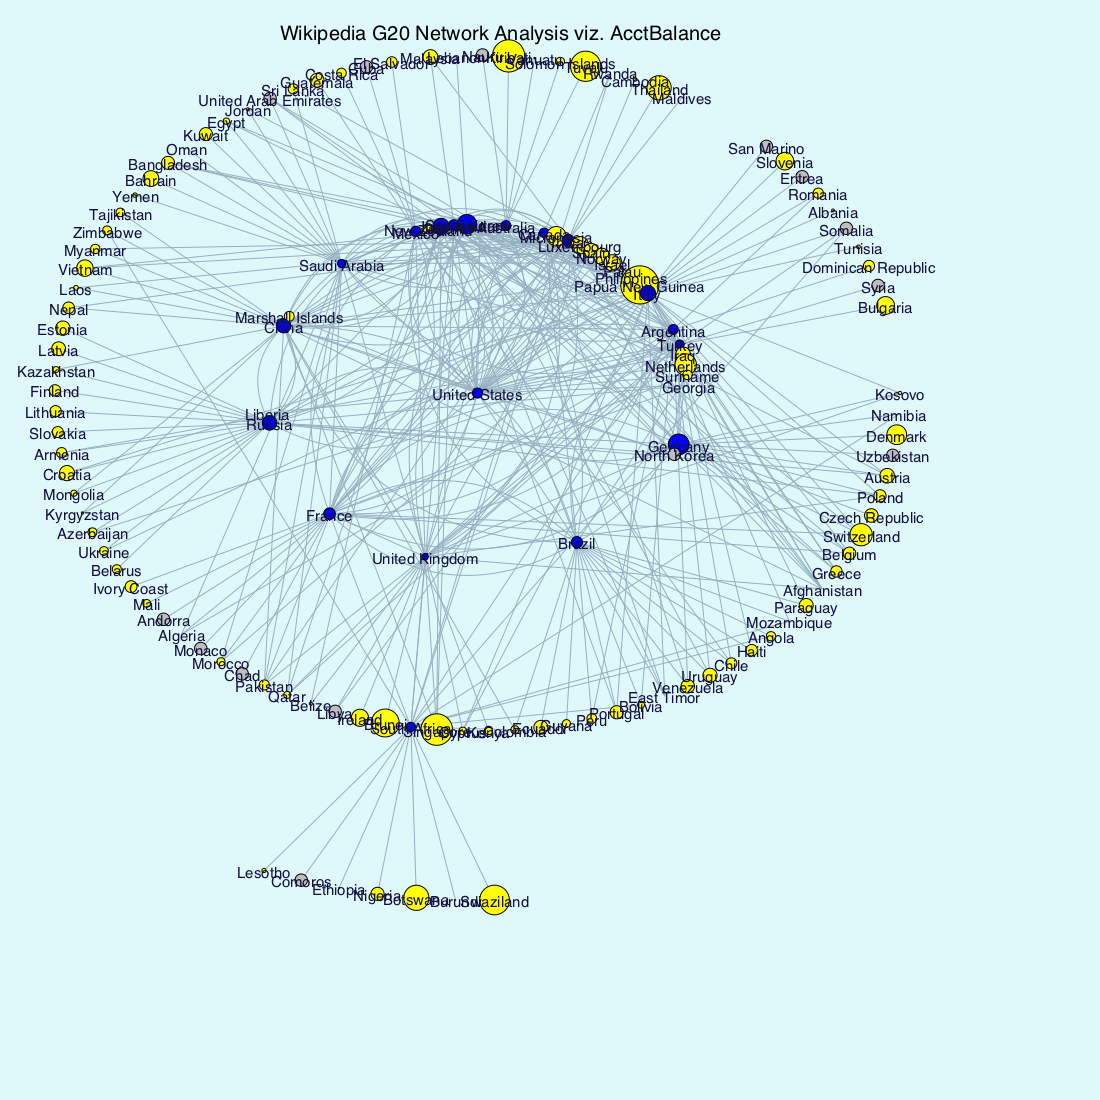
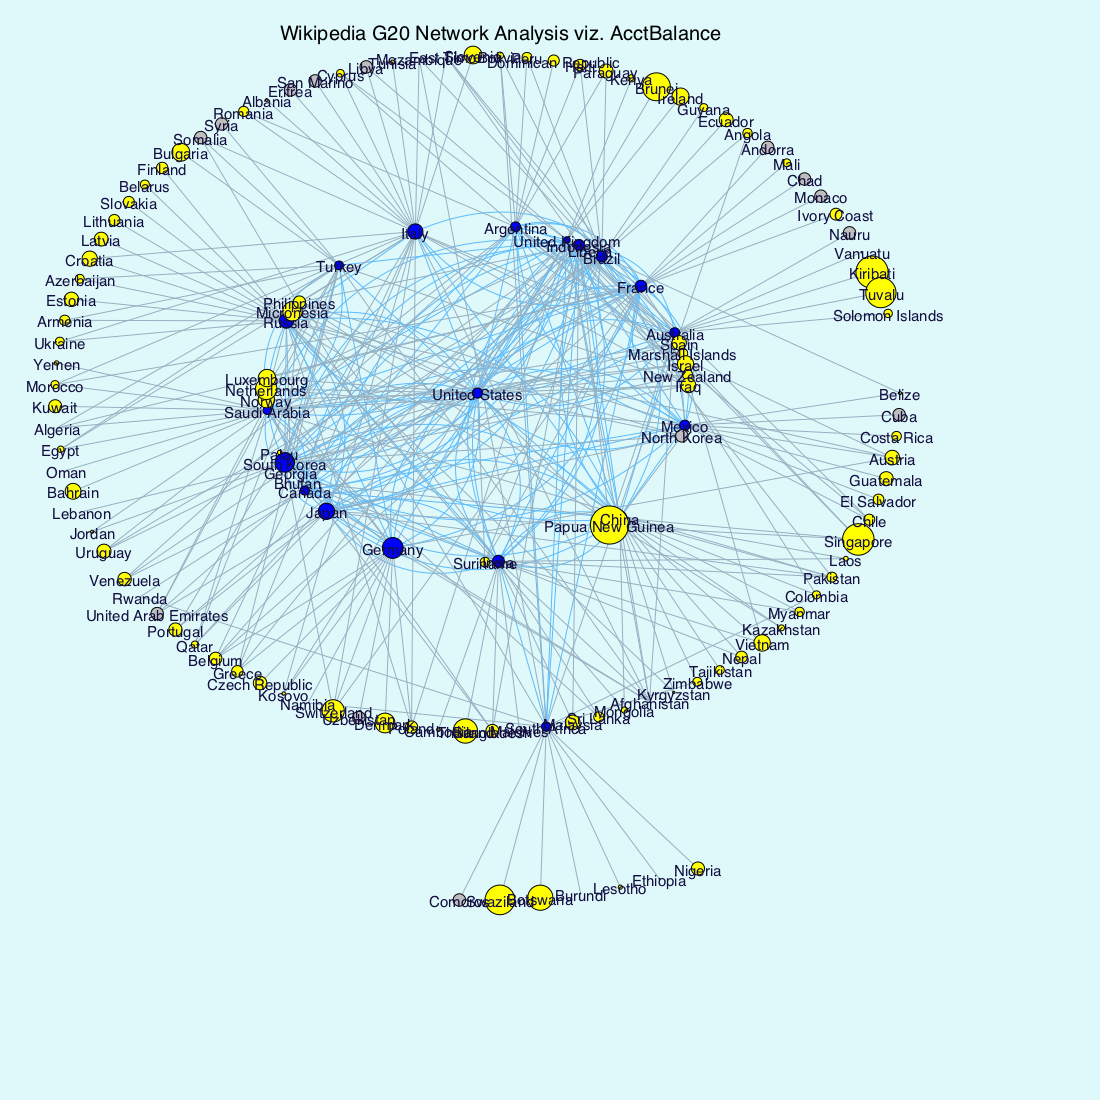
edit to the edges

diff --git a/WDSummative.py b/WDSummative.py
@@ -277,6 +277,7 @@ def buildGraphExports(networkGraph):
     fileName = "NetworkWikiExportsWD2018.png"
 
     color_dict = {"G20": "blue", "NotG20": "yellow", "No Data": "gray"}
+    color_dict_edge = {"G20": "#5bbbfb", "NotG20": "#95afc0"}
     visual_style = {}
     visual_style["vertex_label_size"] = 15
     visual_style["vertex_label_color"] =  "#130f40"
@@ -303,6 +304,25 @@ def buildGraphExports(networkGraph):
     visual_style["vertex_size"] = [10 + (balance - total) for balance in networkGraph.vs["exports"]]
     visual_style["vertex_color"] = [color_dict[status] for status in networkGraph.vs["status"]]
 
+    ce = 0
+    for edge in networkGraph.es:
+        v1 = "NotG20"
+        v2 = "NotG20"
+
+        if networkGraph.vs[edge.target]["name"] in G20_NAMES:
+            v1 = "G20"
+        if networkGraph.vs[edge.source]["name"] in G20_NAMES:
+            v2 = "G20"
+        if v1 == "G20" and v2 =="G20":
+            networkGraph.es[ce]["connection_type"] = "G20"
+        else:
+            networkGraph.es[ce]["connection_type"] = "NotG20"
+        ce += 1
+
+    visual_style["edge_color"] = [color_dict_edge[conntype] for conntype in \
+                        networkGraph.es["connection_type"]]
+
+
     networkGraph.vs["label"] = networkGraph.vs["name"]
     layout = networkGraph.layout("rt_circular")
 
@@ -320,8 +340,10 @@ def buildGraphExports(networkGraph):
     plot.save()
 
 def buildGraphAcctBal(networkGraph2):
-    fileName = "NetworkWikieAcctBalanceWD2018.png"
+    fileName = "NetworkWikiAcctBalanceWD2018.png"
     color_dict = {"G20": "blue", "NotG20": "yellow", "No Data": "gray"}
+    color_dict_edge = {"G20": "#5bbbfb", "NotG20": "#95afc0"}
+
     visual_style = {}
     visual_style["vertex_label_size"] = 15
     visual_style["vertex_label_color"] =  "#130f40"
@@ -349,6 +371,25 @@ def buildGraphAcctBal(networkGraph2):
                         networkGraph2.vs["account-balance"]]
     visual_style["vertex_color"] = [color_dict[status] for status in \
                         networkGraph2.vs["status"]]
+    ce = 0
+    for edge in networkGraph2.es:
+        v1 = "NotG20"
+        v2 = "NotG20"
+
+        if networkGraph2.vs[edge.target]["name"] in G20_NAMES:
+            v1 = "G20"
+        if networkGraph2.vs[edge.source]["name"] in G20_NAMES:
+            v2 = "G20"
+        if v1 == "G20" and v2 =="G20":
+            networkGraph2.es[ce]["connection_type"] = "G20"
+        else:
+            networkGraph2.es[ce]["connection_type"] = "NotG20"
+        ce += 1
+
+    visual_style["edge_color"] = [color_dict_edge[conntype] for conntype in \
+                        networkGraph2.es["connection_type"]]
+
+
 
     networkGraph2.vs["label"] = networkGraph2.vs["name"]
     layout = networkGraph2.layout("rt_circular")
